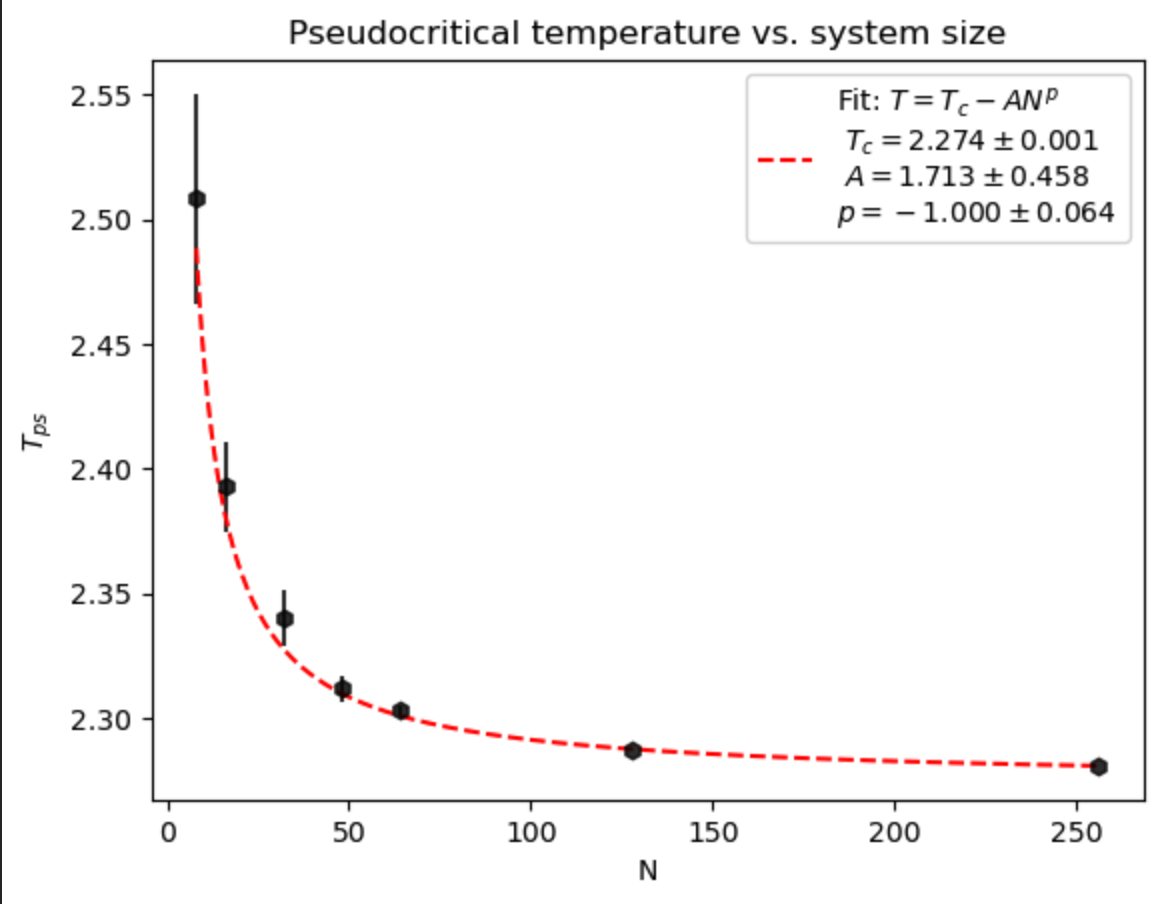
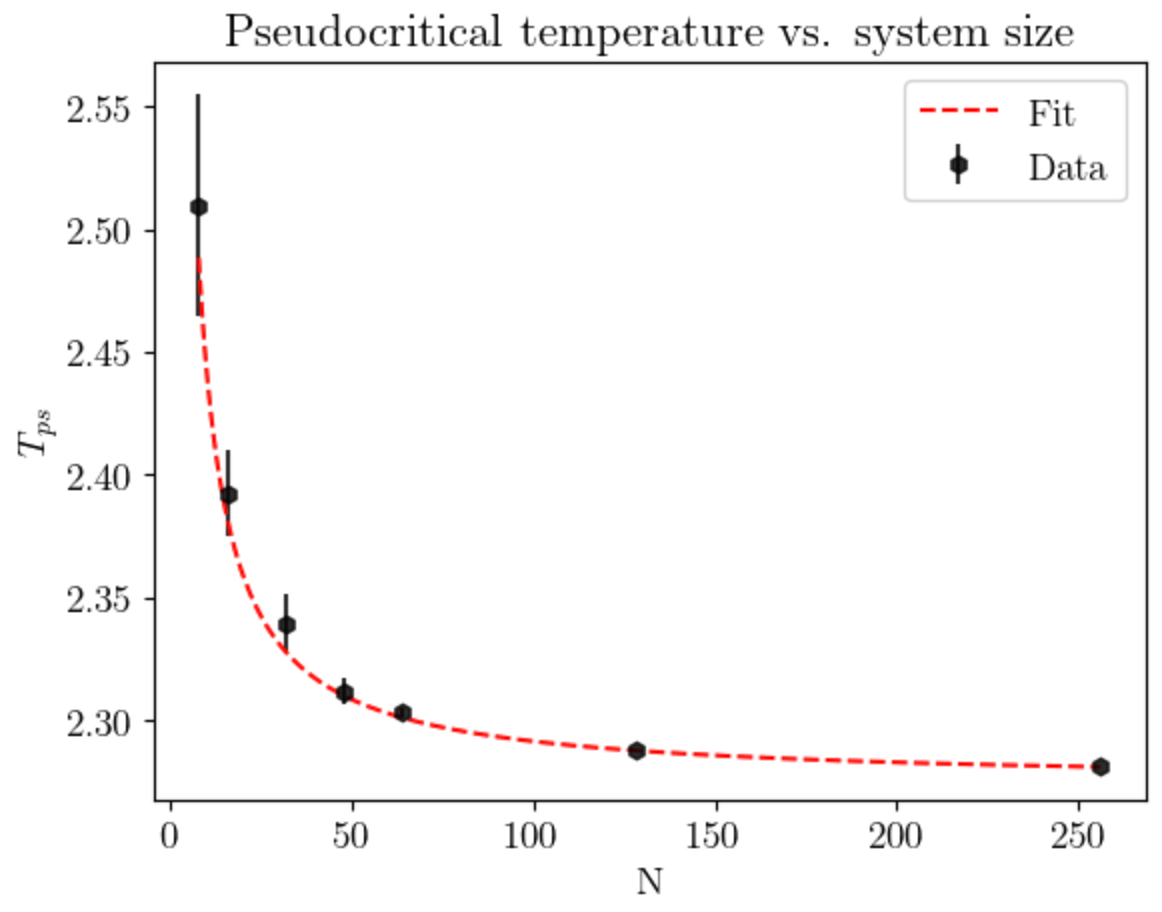
push

diff --git a/docs/critical_exponents.html b/docs/critical_exponents.html
@@ -247,22 +247,33 @@ window.Quarto = {
 <p><span class="math display">\[
 T_{ps} = T_c + AN^{-1/\nu}
 \]</span></p>
-<p>By using <code>scipy.optimize.curve_fit</code> and setting the fit function to the above equation, it can be found from this data that <span class="math inline">\(\nu = 1 \pm 0.064\)</span>, equalling the analytical value, as can be seen in Fig. 3.</p>
+<p>By using <code>scipy.optimize.curve_fit</code> and setting the fit function to the above equation, it can be found from this data that <span class="math inline">\(\nu = 1 \pm 0.064\)</span>, equalling the analytical value, as can be seen in Fig. 3-4.</p>
 <div class="quarto-figure quarto-figure-center">
 <figure class="figure">
 <p><img src="./images/ps_temp_vs_size.png" class="img-fluid figure-img"></p>
 <figcaption>Fig. 3: Pseudocritical temperature vs.&nbsp;system size, demonstrating the exponent p = -1, as expected in the theory.</figcaption>
 </figure>
 </div>
-<p>Also seen in Fig. 3 is a resonably good estimate of the critical temperature (as it arrives from the fit parameters).</p>
+<div class="quarto-figure quarto-figure-center">
+<figure class="figure">
+<p><img src="./images/log_ps_temp_vs_size.png" class="img-fluid figure-img"></p>
+<figcaption>Fig. 4: Log-log plot of pseudocritical temperature versus system size, with values for the critical temperature, p and A from Fig 3 used to plot line of best fit and error.</figcaption>
+</figure>
+</div>
 </section>
 <section id="finding-the-second-critical-exponent" class="level3">
 <h3 class="anchored" data-anchor-id="finding-the-second-critical-exponent">Finding the second critical exponent</h3>
-<p>The second critical exponent to find is <span class="math inline">\(\gamma\)</span>, which can be computed from a log-log plot of <span class="math inline">\(\chi_\text{max}\)</span> aginst system size (as seen in the Theory section). The slope of this plot is equal to <span class="math inline">\(\gamma / \nu\)</span>, and since we know <span class="math inline">\(\nu=1\)</span>, is just equal to <span class="math inline">\(\gamma\)</span>. This can be seen in Fig. 4.</p>
+<p>The second critical exponent to find is <span class="math inline">\(\gamma\)</span>, which can be computed from a log-log plot of <span class="math inline">\(\chi_\text{max}\)</span> aginst system size (as seen in the Theory section). The slope of this plot is equal to <span class="math inline">\(\gamma / \nu\)</span>, and since we know <span class="math inline">\(\nu=1\)</span>, is just equal to <span class="math inline">\(\gamma\)</span>. This can be seen in Fig. 5-6.</p>
 <div class="quarto-figure quarto-figure-center">
 <figure class="figure">
-<p><img src="./images/max_chi_vs_size_loglog.png" class="img-fluid figure-img"></p>
-<figcaption>Fig. 4: A log-log plot of the maximum value of the susceptibility against system size. This finds m=1.726.</figcaption>
+<p><img src="./images/max_chi_vs_N.png" class="img-fluid figure-img"></p>
+<figcaption>Fig. 5: A plot of the maximum value of the susceptibility against system size. This finds m=1.726.</figcaption>
+</figure>
+</div>
+<div class="quarto-figure quarto-figure-center">
+<figure class="figure">
+<p><img src="./images/log_max_chi_vs_N.png" class="img-fluid figure-img"></p>
+<figcaption>Fig. 6: Log-log plot of maximum susceptibility versus system size, demonstrating a linear fit. Values of m and c from Fig. 5 are used to plot line of best fit and error.</figcaption>
 </figure>
 </div>
 <p>This finds a slighlty unexpected value of <span class="math inline">\(\gamma = 1.726 \pm 0.005\)</span>. Whilst this is not far off, it is not perfect.</p>
